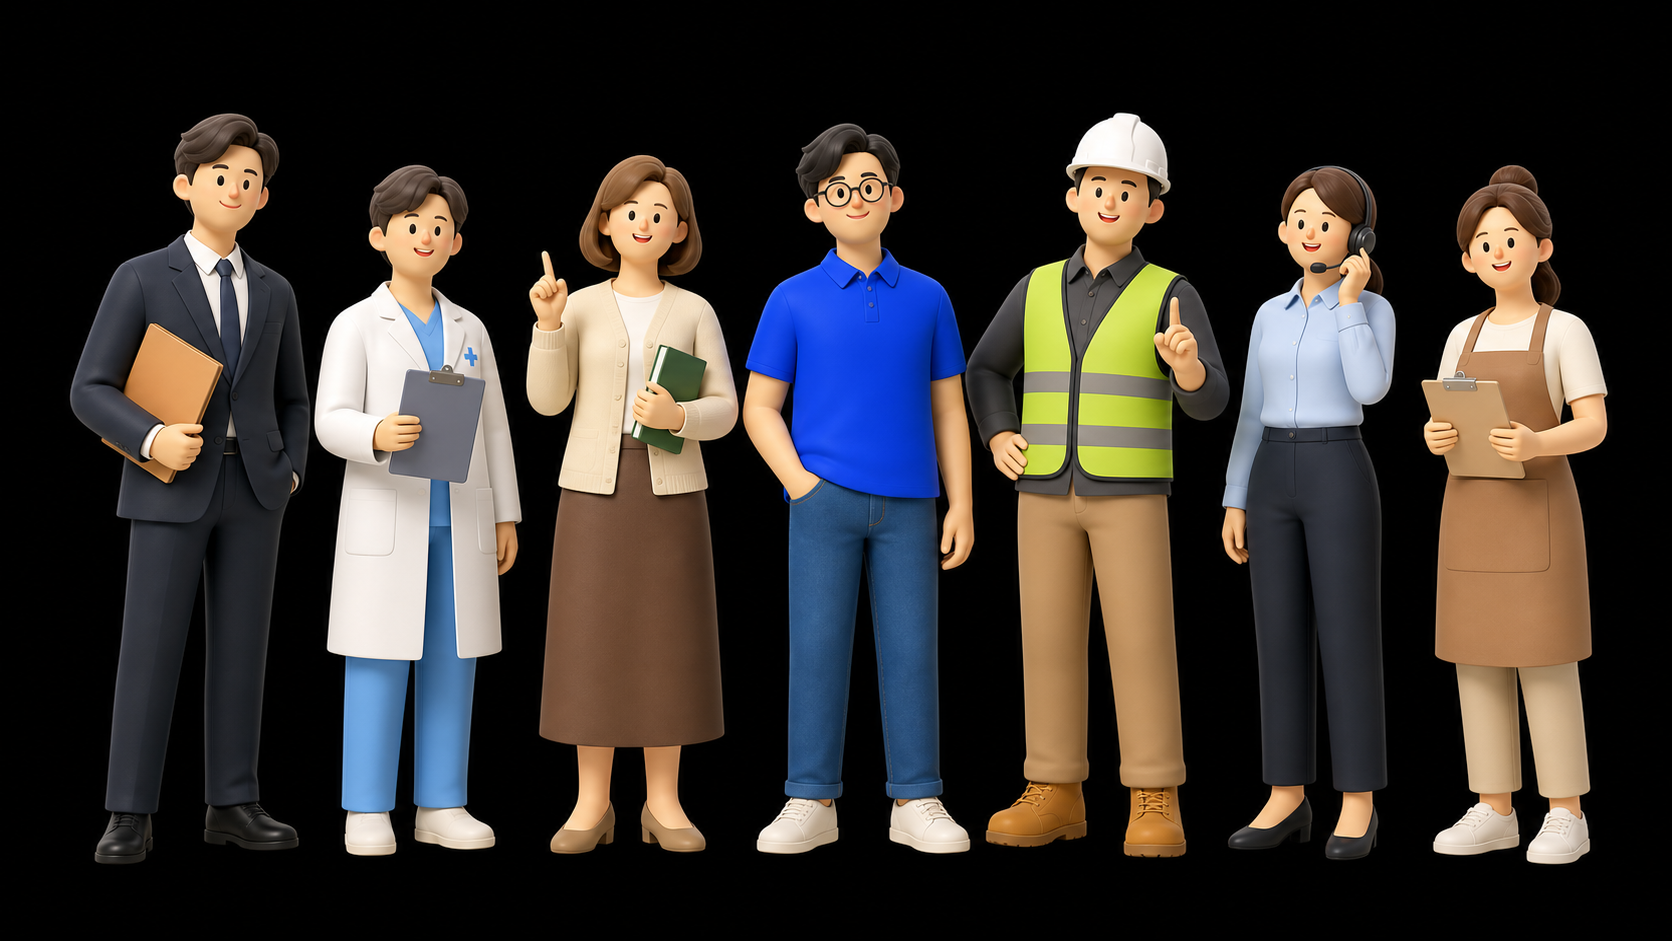
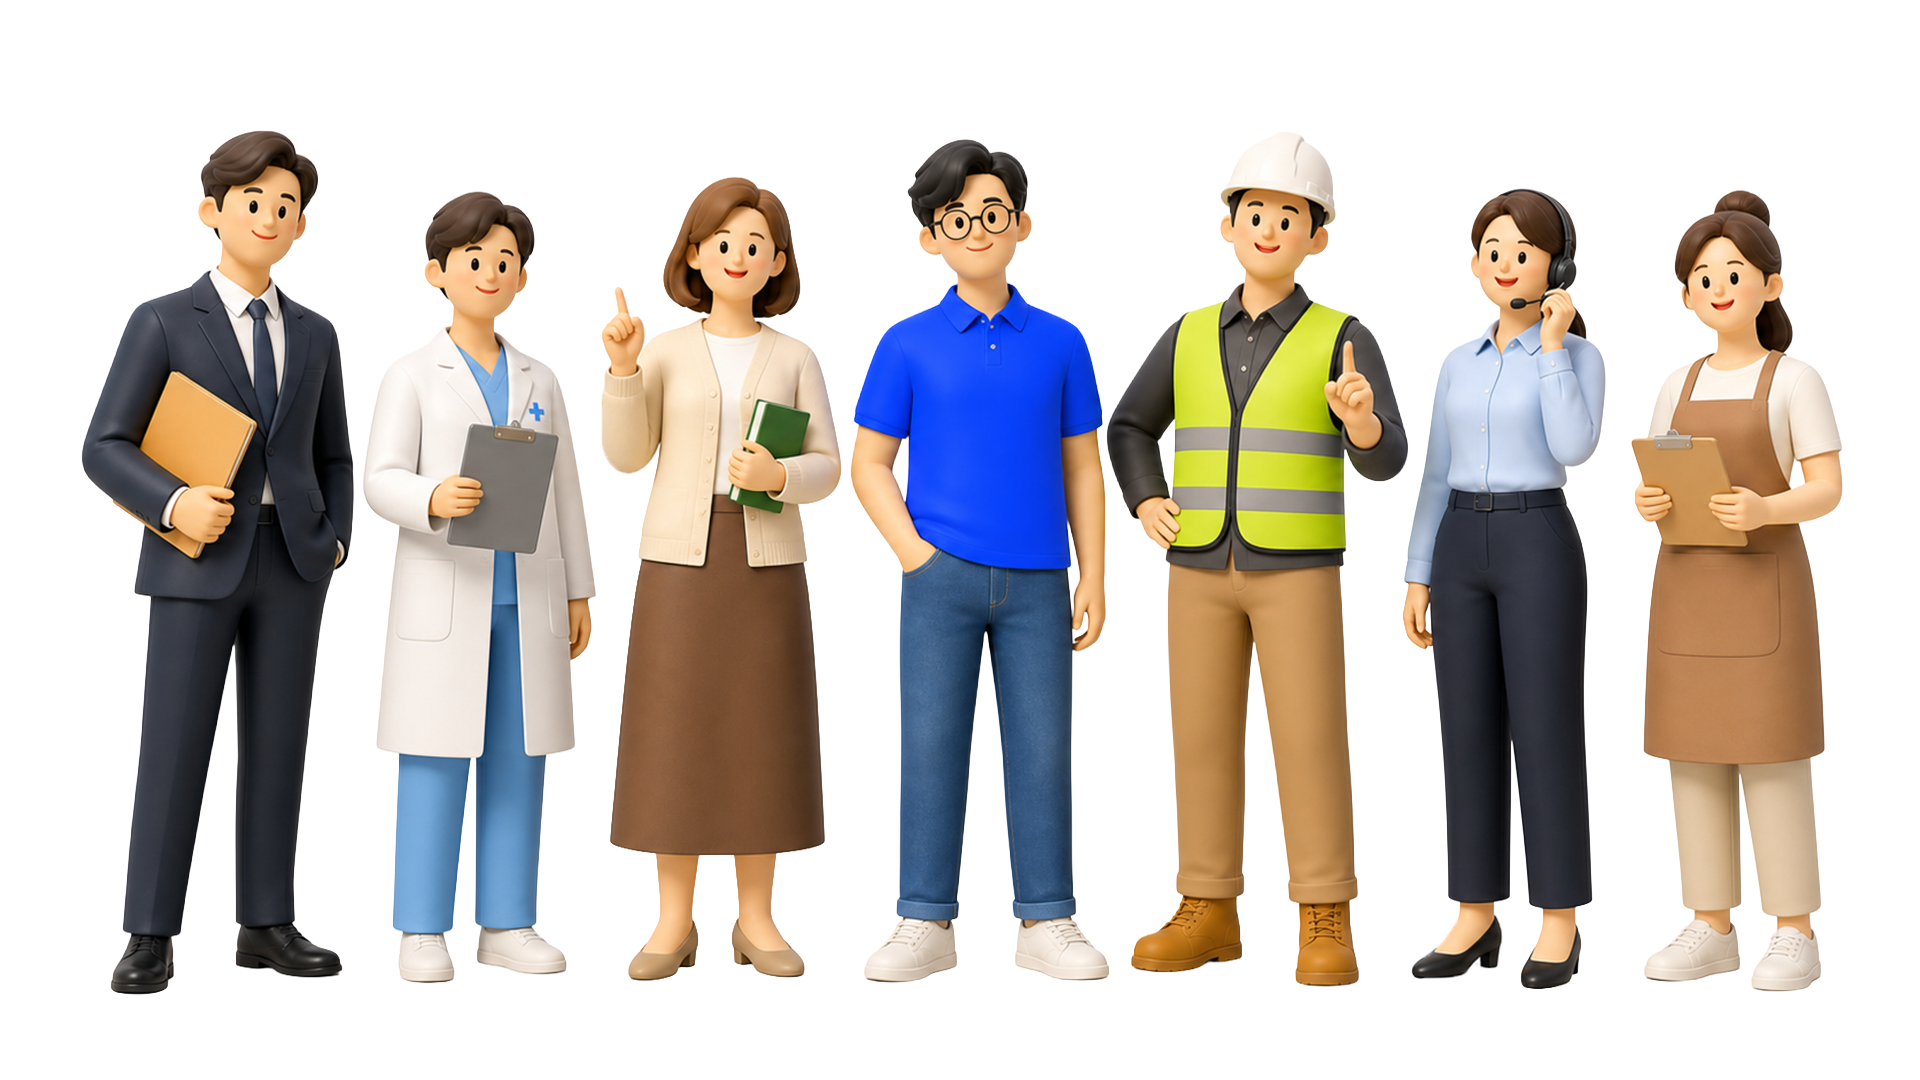
히어로 이미지: 투명 PNG로 교체 → 블렌드 제거 + 크게(max-w-4xl) + 소프트 드롭섀도
섹션 max-w-3xl→5xl로 넓혀 이미지 키움. mix-blend 제거(투명 배경). drop-shadow로 깊이.

diff --git a/components/landing/HeroNew.tsx b/components/landing/HeroNew.tsx
@@ -31,7 +31,7 @@ export default function HeroNew() {
       />
       {/* 하단 화이트 페이드(길게) — 오로라가 다음 섹션으로 매끄럽게 녹아들게 */}
       <div className="pointer-events-none absolute inset-x-0 bottom-0 h-[42vh] bg-gradient-to-b from-transparent via-white/70 to-white" />
-      <section className="relative mx-auto flex w-full max-w-3xl flex-1 flex-col items-center justify-center px-6 py-24 text-center">
+      <section className="relative mx-auto flex w-full max-w-5xl flex-1 flex-col items-center justify-center px-6 py-24 text-center">
         <Reveal>
           <p className="text-sm font-semibold tracking-tight text-[#1D75F7] sm:text-base">검색되는 블로그, 한 번에</p>
           <h1 className="font-pretendard mt-4 text-[clamp(34px,8.4vw,62px)] font-bold leading-[1.1] tracking-[-0.02em]">
@@ -52,17 +52,16 @@ export default function HeroNew() {
           <p className="mt-3 text-xs text-neutral-400">오픈하면 가장 먼저 알려드릴게요 · 스팸 없어요</p>
         </Reveal>
 
-        {/* 하단 미리보기 이미지 — 블랙 배경을 screen 블렌드로 날림.
-            ★Reveal(transform)·섹션 z-10은 stacking context를 만들어 블렌드가 오로라까지 못 닿음 → 감싸지 않고 직접 렌더 */}
-        <div className="mt-10 w-full sm:mt-12">
+        {/* 하단 미리보기 이미지 — 투명 PNG, 크게 + 소프트 드롭섀도(모양 따라) */}
+        <Reveal delay={220} className="mt-12 w-full sm:mt-16">
           {/* eslint-disable-next-line @next/next/no-img-element */}
           <img
             src="/hero.png"
             alt="에이트플로 미리보기"
-            className="mx-auto w-full max-w-2xl"
-            style={{ mixBlendMode: "screen" }}
+            className="mx-auto w-full max-w-4xl"
+            style={{ filter: "drop-shadow(0 28px 50px rgba(20,40,90,0.22))" }}
           />
-        </div>
+        </Reveal>
       </section>
 
       {/* 모바일 하단 고정 CTA */}
